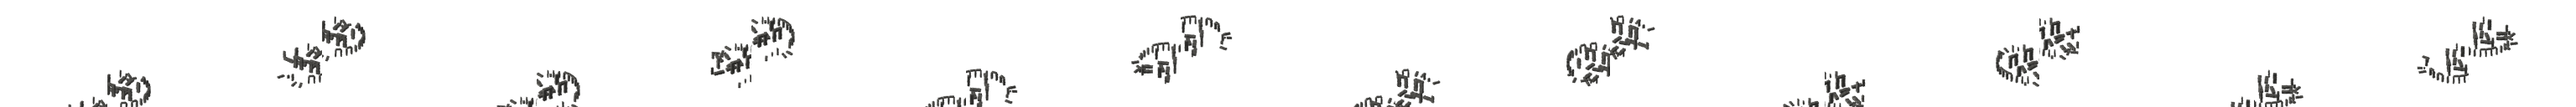
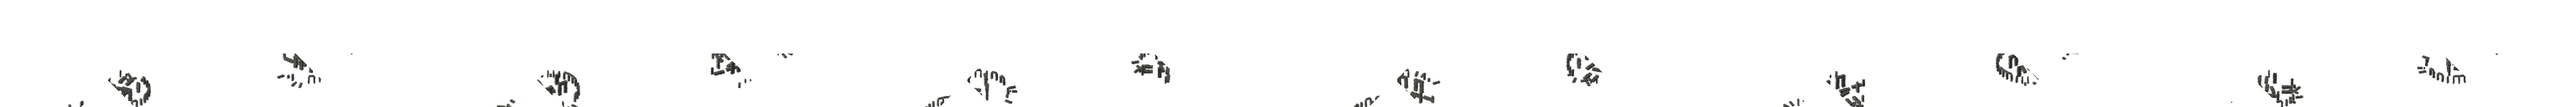
buildings: hex per-tile pixel mask
Hex analogue of `sq_tile_pixel_mask`.  The shear projection makes
world-Euclidean distance² between screen-px offsets equal `dx² +
3·dy²`; Voronoi under that metric cuts cleanly along projected
hex tile edges.  Intersected with the projected hex cell-shape
(`|dy| ≤ W/4 AND |dx| + |dy| ≤ W/2`).  Wired into `building_hex_
viewpoint`; signalbox + stonehenge re-bake with overlap pixels
cut from each slice.

Sprite-tall extension for tall multi-tile buildings deferred —
the projected hex clips above ground-anchor, but the ported
multi-tile catalog (signalbox, stonehenge) is low-profile.

diff --git a/pak/viewpoints.py b/pak/viewpoints.py
@@ -479,6 +479,65 @@ def sq_tile_pixel_mask(
     return keep.astype(np.float32)
 
 
+def hex_tile_pixel_mask(
+    my_offset: tuple[int, int],
+    other_offsets: list[tuple[int, int]] = (),
+    image_width: int = DEFAULT_W,
+):
+    """Per-cell pixel-ownership mask for the hex lattice.
+
+    Hex analogue of `sq_tile_pixel_mask`.  The `hex_proj_shear` extrinsic
+    compresses world y by `1/√3`, so world Euclidean distance² between
+    two screen-px offsets `(Δx, Δy)` equals `(Δx² + 3·Δy²) / (W/2R)²`
+    (1 world unit in y carries √3 more pixel weight than 1 world unit
+    in x).  Voronoi under this metric partitions screen space exactly
+    along the projected hex tile edges -- footprint neighbours adjacent
+    in the hex lattice (`HEX_KOORD_*_WORLD`) cut cleanly along their
+    shared projected edge with no overlap.
+
+    Intersected with the projected hex cell-shape: regular hex with
+    corners at `(±W/2, 0)` and `(±W/4, ∓W/4)` relative to the ground
+    anchor at `(W/2, 3W/4)`, which is the right shape for an isolated
+    tile (no footprint neighbours).  Clips above the ground anchor at
+    `dy = -W/4`, so silhouettes extending above the tile footprint get
+    cut by the cell-shape rather than carried into the slice.  The
+    `+1` slack absorbs the slope-±1 AA edge ring.
+
+    `my_offset`: this tile's slice centre offset (`cx_px, cy_px`).
+    `other_offsets`: every other footprint tile's slice centre.
+    """
+    import numpy as np
+    half = image_width // 2
+    quarter = image_width // 4
+    full = image_width
+    ys, xs = np.indices((full, full))
+    dx_cell = xs - half
+    anchor_y = 3 * full // 4
+    dy_cell = ys - anchor_y
+    # World-Euclidean distance² scaled by (W/(2R))² is `dx² + 3·dy²`;
+    # equivalent for closest-tile comparison.
+    my_dist = dx_cell * dx_cell + 3 * dy_cell * dy_cell
+    keep = np.ones((full, full), dtype=bool)
+    mx, my = my_offset
+    for ox, oy in other_offsets:
+        rel_x, rel_y = ox - mx, oy - my
+        rdx = dx_cell - rel_x
+        rdy = dy_cell - rel_y
+        other_dist = rdx * rdx + 3 * rdy * rdy
+        # Closer-to-viewer wins ties: `rel_y > 0` means other is below
+        # us in screen, so we LOSE ties when rel_y > 0.
+        keep &= (my_dist < other_dist) | (
+            (my_dist == other_dist) & (rel_y < 0)
+        )
+    # Projected hex cell-shape clip.  `|dy| ≤ W/4 AND |dx| + |dy| ≤
+    # W/2` -- the six edges meet the corners (W/2, 0), (±W/4, ±W/4),
+    # (-W/2, 0) at equality on each constraint.
+    abs_x = np.abs(dx_cell)
+    abs_y = np.abs(dy_cell)
+    keep &= (abs_y <= quarter + 1) & (abs_x + abs_y <= half + 1)
+    return keep.astype(np.float32)
+
+
 def _building_slices(
     layout: int, height: int, dims_x: int, dims_y: int,
     screen_offset,
@@ -952,14 +1011,14 @@ def building_hex_viewpoint(
     # within a single season — each (h) becomes one atlas row, with
     # layouts spanning columns left-to-right (each layout block is a
     # `dims_x*dims_y`-wide footprint).  See `emit_building`'s col
-    # formula `l * dims_x*dims_y + y * w + x`.  Per-tile pixel-ownership
-    # mask for the hex lattice is unfinished -- see TODO.md.
+    # formula `l * dims_x*dims_y + y * w + x`.
     for h in range(heights):
         for l in range(layouts):
             facings.append(Facing(
                 label=f"L{l}_H{h}",
                 slices=_building_slices(
                     l, h, dims_x, dims_y, hex_tile_screen_offset,
+                    pixel_mask=hex_tile_pixel_mask,
                 ),
                 camera_location=_HEX_CAM_LOC,
                 camera_rotation_euler=_HEX_CAM_ROT,

diff --git a/tests/test_viewpoints.py b/tests/test_viewpoints.py
@@ -23,6 +23,7 @@ from pak.viewpoints import (
     building_hex_viewpoint,
     building_square_viewpoint,
     fence_square_viewpoint,
+    hex_tile_pixel_mask,
     hex_tile_screen_offset,
     sq_tile_pixel_mask,
     sun_rotation_for_camera,
@@ -296,6 +297,69 @@ class TestSqTilePixelMask(unittest.TestCase):
         # Both > 0 anywhere = overlap.
         overlap = ((ca > 0) & (cb > 0)).sum()
         self.assertEqual(overlap, 0)
+
+
+class TestHexTilePixelMask(unittest.TestCase):
+    """`hex_tile_pixel_mask` is the world-Euclidean Voronoi ∩ projected-
+    hex clip that keeps multi-tile hex sprites disjoint.  Hex-lattice
+    neighbours adjacent in `HEX_KOORD_*_WORLD` must produce a clean
+    edge cut; the projected hex shape clips an isolated tile."""
+
+    def test_single_tile_collapses_to_hex(self):
+        m = hex_tile_pixel_mask((0, 0))
+        # All four sprite corners sit outside the projected hex (anchor
+        # at (W/2, 3W/4), hex spans dy ∈ [-W/4, +W/4]).
+        self.assertEqual(m[0, 0], 0.0)
+        self.assertEqual(m[0, DEFAULT_W - 1], 0.0)
+        self.assertEqual(m[DEFAULT_W - 1, 0], 0.0)
+        self.assertEqual(m[DEFAULT_W - 1, DEFAULT_W - 1], 0.0)
+        # Anchor + sprite centre inside; E/W hex tips inside one pixel.
+        self.assertEqual(m[3 * DEFAULT_W // 4, DEFAULT_W // 2], 1.0)
+        self.assertEqual(m[DEFAULT_W // 2, DEFAULT_W // 2], 1.0)
+        self.assertEqual(m[3 * DEFAULT_W // 4, DEFAULT_W - 2], 1.0)
+        self.assertEqual(m[3 * DEFAULT_W // 4, 1], 1.0)
+
+    def test_adjacent_tiles_disjoint_on_canvas(self):
+        # 2x1 footprint along koord+x.  Tile B is one `HEX_KOORD_Q_
+        # WORLD` step from A on screen — their projected hexes meet
+        # along a shared edge, must partition the canvas with no
+        # overlap once pasted at their respective slots.
+        import numpy as np
+        a_off, b_off = (-48, -16), (48, 16)
+        ma = hex_tile_pixel_mask(a_off, [b_off])
+        mb = hex_tile_pixel_mask(b_off, [a_off])
+        canvas_size = 256
+        ca = np.zeros((canvas_size, canvas_size), dtype=np.float32)
+        cb = np.zeros((canvas_size, canvas_size), dtype=np.float32)
+
+        def paste(canvas, mask, off):
+            cx = canvas_size // 2 + off[0] - DEFAULT_W // 2
+            cy = canvas_size // 2 + off[1] - DEFAULT_W // 2
+            canvas[cy:cy + DEFAULT_W, cx:cx + DEFAULT_W] = mask
+        paste(ca, ma, a_off)
+        paste(cb, mb, b_off)
+        overlap = ((ca > 0) & (cb > 0)).sum()
+        self.assertEqual(overlap, 0)
+
+    def test_ring_voronoi_contained_in_cell_shape(self):
+        # The projected hex cell-shape coincides with the Voronoi cell
+        # against the six hex-lattice neighbours, so adding all six as
+        # `other_offsets` can only shrink the mask -- never grow it.
+        # Strict equality fails on the +1 AA slack ring and on the
+        # closer-to-viewer tie-break, so containment is the invariant.
+        import numpy as np
+        neighbours = [
+            (int(round(x)), int(round(y)))
+            for x, y in (hex_tile_screen_offset(qx, ry)
+                         for qx, ry in [(1, 0), (0, 1), (-1, 1),
+                                        (-1, 0), (0, -1), (1, -1)])
+        ]
+        m_ring = hex_tile_pixel_mask((0, 0), neighbours)
+        m_solo = hex_tile_pixel_mask((0, 0))
+        self.assertTrue(np.all(m_ring <= m_solo))
+        # Bulk of the cell-shape (well inside the strict hex) survives
+        # the ring cut -- not all of m_solo is slack.
+        self.assertGreater(m_ring.sum(), 0.9 * m_solo.sum())
 
 
 class TestViewpointPickleRoundTrip(unittest.TestCase):

diff --git a/TODO.md b/TODO.md
@@ -319,11 +319,8 @@ Closes the original "rotation sign" probe.
 
 **Open: in-engine eyeball (second pass).**  First load under
 hextrans surfaced the asymmetric-footprint centring bug (fixed
-above).  Need a second pass to confirm seams now align;
-remaining suspects if not: the missing per-tile hex pixel mask
-(see "hex-projection per-tile pixel mask" below — slices
-currently overlap on canvas, so adjacent cells will paint each
-other's pixels during the engine's z-ordered draw) and the
+above).  Need a second pass to confirm seams now align with the
+hex pixel mask in place; remaining suspect if not is the
 hex-grid-vs-engine `(layout & 1)` cell-axis convention (engine
 only paints cells along koord +x or +y in `gebaeude.cc`, so the
 6-rotation model under our hex policy lands four of its
@@ -368,21 +365,23 @@ on stonehenge (worst 0.31) since the splitter relies on the
 canvas-anchor convention.  Concrete next move = the offset gap
 entry below.
 
-**Open: hex-projection per-tile pixel mask.**  `sq_tile_pixel_mask`
-gives the strict ownership clip (L1-Voronoi ∩ hexagon) for the
-square dimetric calibration diff so multi-tile sprites partition the
-canvas without overdraw between neighbours; `building_hex_viewpoint`'s
-multi-tile path still emits `alpha_mask=None` on every slice.  Hex
-tiles are regular hexagons (not dimetric diamonds), so the lattice
-metric and ownership shape differ.  Concrete next move: derive the
-per-tile ownership shape by inverting `hex_tile_screen_offset` over
-the hex footprint (the convention should fall out of
-`koord.cc::neighbours[]` + `synth_geometry.h`'s hex extent), add
-`hex_tile_pixel_mask` next to `sq_tile_pixel_mask`, and plumb it
-through the multi-tile slice list.  Trigger: now hot — first
-in-engine inspection of the signalbox surfaced misrenders; this is
-one of the two outstanding suspects (the other is the cell-axis
-schema gap below).
+**Open: hex pixel-mask sprite-tall extension.**  `hex_tile_pixel_
+mask` clips each multi-tile slice to the projected hex shape
+(lower half of the slice, dy ∈ [-W/4, +W/4] from the ground
+anchor) -- the strict Voronoi cell of the hex lattice under the
+shear projection's world-Euclidean metric `dx² + 3·dy²`.  The
+dimetric analogue (`sq_tile_pixel_mask`) extends its diamond to
+sprite-tall so towers / gables on multi-tile buildings keep
+their upward silhouette; the hex version does not, so a tall
+multi-tile building would have its upper-half-sprite content
+clipped per slice.  Not bitten on the ported multi-tile catalog
+(signalbox, stonehenge — both low-profile).  Concrete next move
+when a tall multi-tile asset ports: extend the cell-shape upward
+above dy=-W/4.  Cleanest extension is probably "drop the
+NE-NW top edge, cap at sprite top with a horizontal line", giving
+each tile its own inscribed-rectangle column above the projected
+hex; mirrors the dimetric apex extension to (W/2, 0).  Soft
+trigger.
 
 **Open: hex multi-tile cell-axis schema mismatch.**  The engine's
 `building_desc_t::get_size(layout)` (`descriptor/building_desc.h`)
@@ -399,8 +398,8 @@ neighbour directions (and the `building_tile_desc_t::get_offset` /
 `get_tile_list` consumers in `gebaeude.cc`); on the pak side, lift
 `iter_building_cells` and `building_hex_viewpoint`'s slice
 generation to walk those 6 directions instead of the binary swap.
-Soft trigger — only matters once the pixel-mask gap is closed and
-the residual misalignment is the visible artefact.
+Soft trigger — only matters once the residual misalignment is
+the visible artefact in-engine.
 
 **Open: `Building.symmetry` schema knob — extension.**
 `Symmetry` enum ships `NONE` (default) and `CONTINUOUS`
